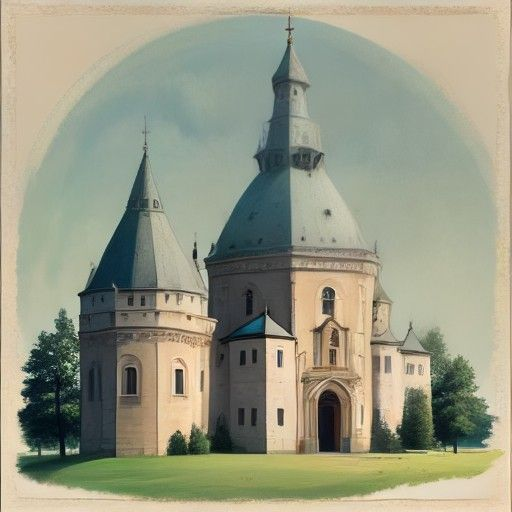
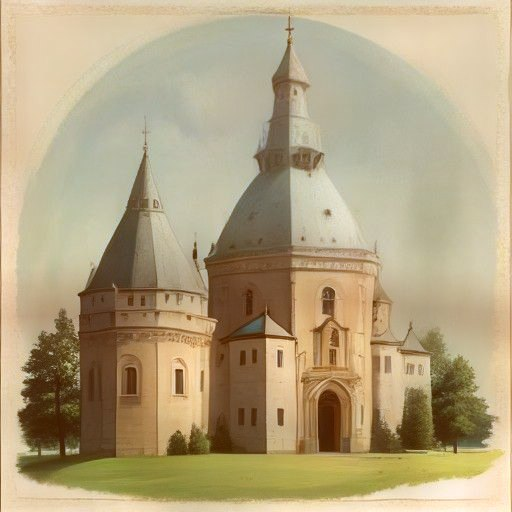
Dorovnavani stylu novych ilustraci (age-illustration.ps1)
Pollinations dnes maluje jinak nez v dobe vzniku puvodni sady, takze
nove dlazdice do ni vizualne nezapadaly. Overeno: i presny prompt
cont-europe s jinymi seedy vysel v novem stylu — nejde tedy o seed,
ale o zmenu modelu. Stare obrazky se reprodukuji jen z cache.

Novy skript proto ilustraci po vygenerovani zestarne podle referencni
dlazdice: prenese barevnou statistiku, podklad (skvrny, vinetaci) a
zrno papiru. Reference se nejdriv rozmaze, aby z ni neprosvitaly tvary
budov; zrno se orezava (GrainClip), jinak se do obrazu propisou hrany.

Rakousko po dorovnani ma celkovy jas 162 (Polsko 166, Slovensko 160).
Postup i pasti PowerShellu zapsany v CLAUDE.md.

diff --git a/CLAUDE.md b/CLAUDE.md
@@ -150,6 +150,30 @@ zvětralý papír vyplňuje celý čtverec bez okrajů.
   svádí model k fotorealistické scéně s perspektivou. Držet se vzoru ostatních dlaždic: `castle`, `temple`,
   `tree` apod.
 
+### Dorovnání stylu po generování — [scripts/age-illustration.ps1](scripts/age-illustration.ps1)
+**Pollinations dnes maluje jinak než v době vzniku původní sady** (`cont-*`, `country-pl`, `country-sk`):
+nové kresby jsou čistší a airbrushové, chybí jim zvětralý papír a tlumená paleta. Ověřeno tak, že
+i **přesný prompt `cont-europe` s jinými seedy** (11, 14, 21) vyšel v novém stylu — kdyby šlo jen o seed,
+rukopis by držel a měnila by se pouze kompozice. Staré obrázky se reprodukují bajt po bajtu jen proto,
+že identická žádost vrátí identický (nacachovaný) výsledek. **Původní rukopis už z téhle služby nevytáhneš.**
+
+Řešení: novou ilustraci po vygenerování „zestárnout" podle referenční dlaždice —
+skript přenese barevnou statistiku (průměr + rozptyl po kanálech), podklad (skvrny, vinětaci)
+a zrno papíru. Referenci nejdřív rozmaže, takže z ní neprosvítají tvary budov.
+```powershell
+powershell -File scripts/gen-illustrations.ps1 -Only country-at -Force   # 1) vygeneruj
+powershell -File scripts/age-illustration.ps1 -In assets/country-at.jpg  # 2) dorovnej styl
+```
+Parametry: `-Ref` (výchozí `assets/country-pl.jpg`), `-Texture` (síla podkladu, 0.45),
+`-Grain` (síla zrna, 0.60), `-GrainClip` (strop zrna, 8.0 — **vyšší hodnota = z reference prosvítají
+cizí tvary**, protože zrno pak nese i hrany budov). Kontrola: celkový jas má vyjít ~160–166
+jako u `country-pl` (166) a `country-sk` (160).
+
+**Past PowerShellu, na kterou skript doplatil:** proměnná pro načtené kanály se **nesmí** jmenovat `$ref` —
+koliduje s parametrem `[string]$Ref` a PowerShell pole tiše zkonvertuje na řetězec (pak se indexuje
+po znacích, ne po pixelech, a výsledkem je jednolitá barevná plocha). Stejně tak `@(pole, pole)`
+pole rozbalí a `return $pole` je rozbalí při návratu — plnit po indexech a vracet `,$pole`.
+
 ### Napojení v kódu
 Dlaždice ([quiz.js](quiz.js), fce `tileHtml`) načítají `assets/{cont|country|section}-*.jpg`
 s **emoji fallbackem** (`onerror`). Chybějící obrázek tedy hru nerozbije — spadne zpět na emoji.
